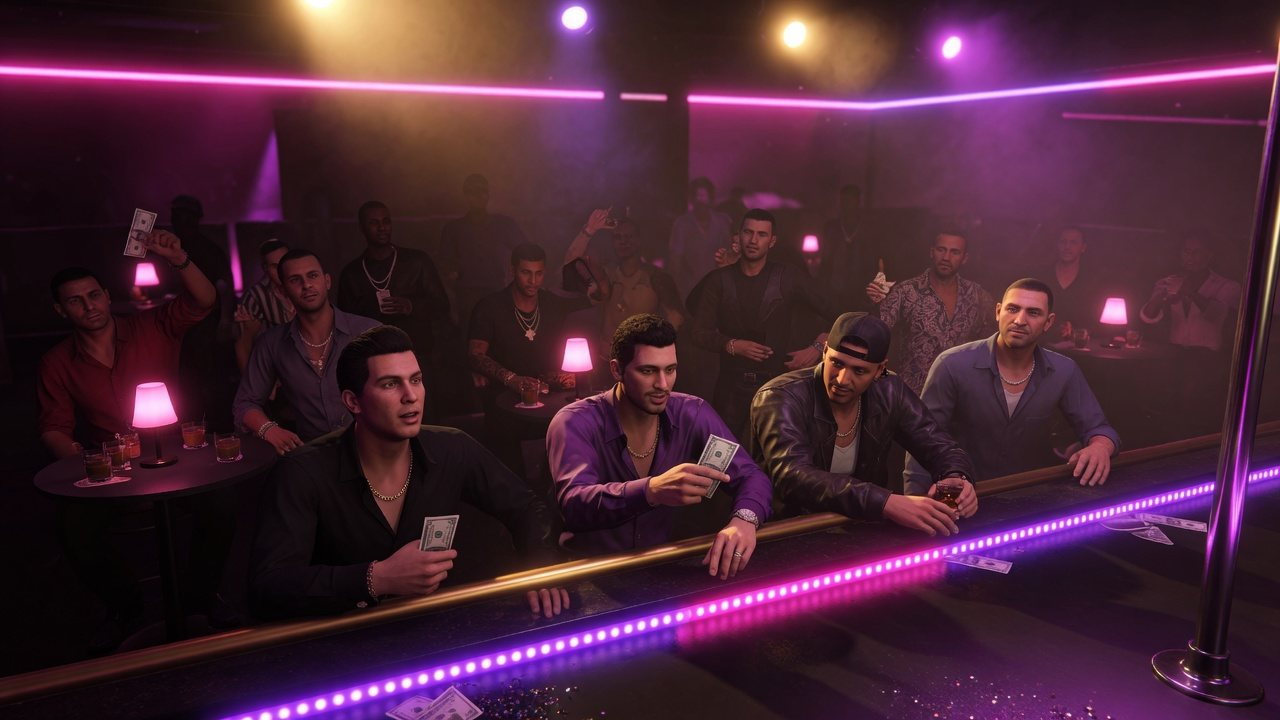
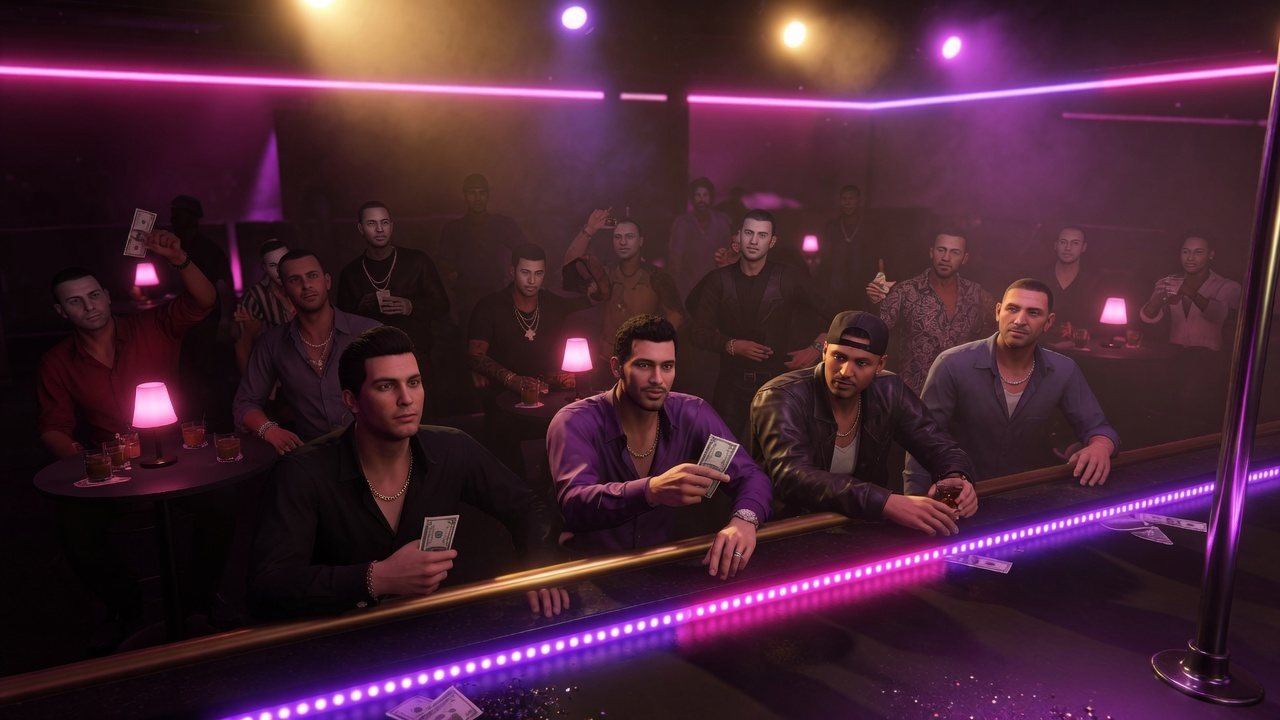
feat: Stage Tips share sheet and floating arms
Crowd looks at the stage camera. Grok hand and faded forearm
sprites trail the swipe. Share score posts to X, Facebook, or Reddit.

diff --git a/stage-tips/game.js b/stage-tips/game.js
@@ -267,117 +267,97 @@
     ctx.restore();
   }
 
-  function limb(ax, ay, bx, by, w0, w1, fill) {
-    var ang = Math.atan2(by - ay, bx - ax);
-    var px = Math.cos(ang + Math.PI / 2);
-    var py = Math.sin(ang + Math.PI / 2);
-    ctx.beginPath();
-    ctx.moveTo(ax + px * w0, ay + py * w0);
-    ctx.lineTo(bx + px * w1, by + py * w1);
-    ctx.lineTo(bx - px * w1, by - py * w1);
-    ctx.lineTo(ax - px * w0, ay - py * w0);
-    ctx.closePath();
-    ctx.fillStyle = fill;
-    ctx.fill();
-  }
+  var frameDt = 0.016;
+  var handImg = new Image();
+  var forearmImg = new Image();
+  var spritesReady = 0;
+  var floaters = {
+    left: { x: 0, y: 0, ex: 0, ey: 0, init: false },
+    right: { x: 0, y: 0, ex: 0, ey: 0, init: false }
+  };
+  handImg.onload = function () { spritesReady += 1; };
+  forearmImg.onload = function () { spritesReady += 1; };
+  handImg.src = 'hand.png';
+  forearmImg.src = 'forearm.png';
 
-  function solveElbow(sx, sy, tx, ty, upper, lower, bendSign) {
-    var dx = tx - sx;
-    var dy = ty - sy;
-    var dist = Math.hypot(dx, dy) || 1;
-    var max = upper + lower - 6;
-    var min = Math.abs(upper - lower) + 8;
-    var nx = tx;
-    var ny = ty;
-    if (dist > max) {
-      nx = sx + dx / dist * max;
-      ny = sy + dy / dist * max;
-      dist = max;
-    } else if (dist < min) {
-      nx = sx + dx / dist * min;
-      ny = sy + dy / dist * min;
-      dist = min;
+  function stepFloater(f, tx, ty, dt) {
+    var len;
+    var vx;
+    var vy;
+    var dist;
+    var wantX;
+    var wantY;
+    var handK;
+    var tailK;
+    if (!f.init) {
+      f.x = tx;
+      f.y = ty;
+      f.ex = tx;
+      f.ey = ty + 150;
+      f.init = true;
     }
-    var ang = Math.atan2(ny - sy, nx - sx);
-    var cosA = (upper * upper + dist * dist - lower * lower) / (2 * upper * dist);
-    cosA = Math.max(-1, Math.min(1, cosA));
-    var elbowAng = ang + bendSign * Math.acos(cosA);
-    var ex = sx + Math.cos(elbowAng) * upper;
-    var ey = sy + Math.sin(elbowAng) * upper;
-    return { ex: ex, ey: ey, hx: nx, hy: ny, ang: Math.atan2(ny - ey, nx - ex) };
+    handK = 1 - Math.pow(0.004, Math.max(dt, 0.001));
+    f.x += (tx - f.x) * Math.min(1, handK);
+    f.y += (ty - f.y) * Math.min(1, handK);
+    vx = f.x - f.ex;
+    vy = f.y - f.ey;
+    dist = Math.hypot(vx, vy) || 1;
+    len = Math.max(130, Math.min(230, cssH * 0.3));
+    wantX = f.x - vx / dist * len;
+    wantY = f.y - vy / dist * len;
+    tailK = 1 - Math.pow(0.28, Math.max(dt, 0.001));
+    f.ex += (wantX - f.ex) * Math.min(1, tailK);
+    f.ey += (wantY - f.ey) * Math.min(1, tailK);
   }
 
-  function drawHand(x, y, ang) {
-    var i;
-    var fx;
+  function drawFloater(f, mirror) {
+    var dx;
+    var dy;
+    var ang;
+    var len;
+    var fw;
+    var hw;
+    var hh;
+    if (spritesReady < 2) return;
+    dx = f.ex - f.x;
+    dy = f.ey - f.y;
+    ang = Math.atan2(dy, dx);
+    len = Math.max(80, Math.hypot(dx, dy));
+    fw = Math.max(46, len * 0.34);
     ctx.save();
-    ctx.translate(x, y);
-    ctx.rotate(ang);
-    ctx.fillStyle = '#f0c4a4';
-    ctx.beginPath();
-    ctx.ellipse(0, 2, 15, 11, 0, 0, Math.PI * 2);
-    ctx.fill();
-    ctx.fillStyle = '#e7b08a';
-    for (i = 0; i < 4; i++) {
-      fx = -11 + i * 7;
-      limb(fx, -6, fx + (i - 1.5) * 1.2, -24, 3.4, 2.4, '#f0c4a4');
-      ctx.fillStyle = '#ff2d95';
-      ctx.beginPath();
-      ctx.ellipse(fx + (i - 1.5) * 1.2, -25, 2.3, 3.1, 0, 0, Math.PI * 2);
-      ctx.fill();
-      ctx.fillStyle = '#e7b08a';
-    }
-    limb(-16, 4, -24, -6, 3.2, 2.2, '#f0c4a4');
-    ctx.fillStyle = '#ff2d95';
-    ctx.beginPath();
-    ctx.ellipse(-25, -7, 2.2, 2.8, -0.6, 0, Math.PI * 2);
-    ctx.fill();
+    ctx.translate(f.x, f.y);
+    ctx.rotate(ang - Math.PI / 2);
+    ctx.drawImage(forearmImg, -fw / 2, -28, fw, len + 28);
+    hw = Math.max(108, cssW * 0.13);
+    hh = hw * (handImg.height / handImg.width);
+    ctx.scale(mirror ? -1 : 1, 1);
+    ctx.drawImage(handImg, -hw / 2, -hh + hw * 0.22, hw, hh);
     ctx.restore();
   }
 
-  function drawOneArm(sx, sy, tx, ty, bendSign) {
-    var upper = Math.max(78, cssH * 0.22);
-    var lower = Math.max(70, cssH * 0.2);
-    var pose = solveElbow(sx, sy, tx, ty, upper, lower, bendSign);
-    limb(sx, sy, pose.ex, pose.ey, 16, 12, '#e2b08a');
-    limb(sx + 2, sy, pose.ex, pose.ey, 7, 5, 'rgba(255, 220, 190, 0.28)');
-    ctx.fillStyle = '#d9a484';
-    ctx.beginPath();
-    ctx.arc(pose.ex, pose.ey, 11, 0, Math.PI * 2);
-    ctx.fill();
-    limb(pose.ex, pose.ey, pose.hx, pose.hy, 11, 7, '#e8b896');
-    limb(pose.ex, pose.ey, pose.hx, pose.hy, 4, 2.5, 'rgba(255, 228, 206, 0.35)');
-    ctx.strokeStyle = '#ffc857';
-    ctx.lineWidth = 3;
-    ctx.beginPath();
-    ctx.arc(pose.hx - Math.cos(pose.ang) * 14, pose.hy - Math.sin(pose.ang) * 14, 8, pose.ang - 1.2, pose.ang + 1.2);
-    ctx.stroke();
-    drawHand(pose.hx, pose.hy, pose.ang);
-  }
-
   function drawArm() {
-    var leftX;
-    var rightX;
-    var leftY;
-    var rightY;
+    var now;
+    var leftTarget;
+    var rightTarget;
     var useLeft;
     if (mode === 'over') return;
-    leftX = cssW * 0.2;
-    rightX = cssW * 0.8;
-    leftY = cssH * 0.78;
-    rightY = cssH * 0.78;
+    now = performance.now();
+    leftTarget = { x: cssW * 0.28, y: cssH * 0.58 + Math.sin(now / 800) * 18 };
+    rightTarget = { x: cssW * 0.72, y: cssH * 0.54 + Math.cos(now / 900) * 16 };
     if (arm.on) {
-      useLeft = Math.abs(arm.x - leftX) <= Math.abs(arm.x - rightX);
+      useLeft = Math.abs(arm.x - leftTarget.x) <= Math.abs(arm.x - rightTarget.x);
       if (useLeft) {
-        leftX = arm.x;
-        leftY = arm.y;
+        leftTarget.x = arm.x;
+        leftTarget.y = arm.y;
       } else {
-        rightX = arm.x;
-        rightY = arm.y;
+        rightTarget.x = arm.x;
+        rightTarget.y = arm.y;
       }
     }
-    drawOneArm(cssW * 0.3, cssH + 36, leftX, leftY, -1);
-    drawOneArm(cssW * 0.7, cssH + 36, rightX, rightY, 1);
+    stepFloater(floaters.left, leftTarget.x, leftTarget.y, frameDt);
+    stepFloater(floaters.right, rightTarget.x, rightTarget.y, frameDt);
+    drawFloater(floaters.left, true);
+    drawFloater(floaters.right, false);
   }
 
   function drawTrail() {
@@ -530,9 +510,9 @@
     trail = [];
     startOverlay.hidden = true;
     endOverlay.hidden = true;
+    document.getElementById('shareSheet').hidden = true;
     hud.hidden = false;
     muteBtn.hidden = false;
-    copyNote.textContent = '';
     if (!muted) tone(330, 0.12, 'sine', 0.04, 520);
     syncHud();
   }
@@ -606,6 +586,7 @@
       if (match.over) finish();
     }
     if (shake > 0) shake = Math.max(0, shake - dt * 28);
+    frameDt = dt;
     if (!arm.on) {
       arm.x = cssW * 0.9 + Math.sin(ts / 700) * 12;
       arm.y = cssH * 0.74 + Math.cos(ts / 900) * 8;
@@ -645,17 +626,15 @@
     if (!muted) unlockAudio();
   });
   muteBtn.textContent = muted ? 'Sound off' : 'Sound on';
-  document.getElementById('copyBtn').addEventListener('click', function () {
-    var text = 'I caught ' + money(match ? match.cash : 0) + ' in Stage Tips. https://stripclubempire.com/stage-tips/';
-    if (navigator.clipboard && navigator.clipboard.writeText) {
-      navigator.clipboard.writeText(text).then(function () {
-        copyNote.textContent = 'Copied.';
-      }).catch(function () {
-        copyNote.textContent = text;
-      });
-    } else {
-      copyNote.textContent = text;
-    }
+  document.getElementById('shareBtn').addEventListener('click', function () {
+    var text = 'I caught ' + money(match ? match.cash : 0) + ' in tips! Can you beat my score?';
+    var page = 'https://stripclubempire.com/stage-tips/';
+    var sheet = document.getElementById('shareSheet');
+    document.getElementById('sharePreview').textContent = text;
+    document.getElementById('shareX').href = 'https://twitter.com/intent/tweet?text=' + encodeURIComponent(text) + '&url=' + encodeURIComponent(page);
+    document.getElementById('shareFb').href = 'https://www.facebook.com/sharer/sharer.php?u=' + encodeURIComponent(page) + '&quote=' + encodeURIComponent(text);
+    document.getElementById('shareReddit').href = 'https://www.reddit.com/submit?url=' + encodeURIComponent(page) + '&title=' + encodeURIComponent(text);
+    sheet.hidden = false;
   });
 
   canvas.addEventListener('pointerdown', onPointerDown);

diff --git a/stage-tips/index.html b/stage-tips/index.html
@@ -107,9 +107,16 @@
           <div class="end-actions">
             <a class="btn btn-primary" href="https://store.steampowered.com/app/4994860/Strip_Club_Empire/" target="_blank" rel="noopener">Wishlist the full club on Steam</a>
             <button type="button" class="btn btn-secondary" id="againBtn">Play again</button>
-            <button type="button" class="btn btn-secondary" id="copyBtn">Copy score</button>
+            <button type="button" class="btn btn-secondary" id="shareBtn">Share score</button>
           </div>
-          <p class="copy-note" id="copyNote"></p>
+          <div class="share-sheet" id="shareSheet" hidden>
+            <p id="sharePreview" class="share-preview"></p>
+            <div class="share-actions">
+              <a id="shareX" class="btn btn-secondary" target="_blank" rel="noopener">Post on X</a>
+              <a id="shareFb" class="btn btn-secondary" target="_blank" rel="noopener">Post on Facebook</a>
+              <a id="shareReddit" class="btn btn-secondary" target="_blank" rel="noopener">Post on Reddit</a>
+            </div>
+          </div>
         </div>
       </div>
     </div>

diff --git a/stage-tips/style.css b/stage-tips/style.css
@@ -282,8 +282,19 @@ canvas {
 
 .best-note { color: var(--gold) !important; font-weight: 700; }
 
-.copy-note {
-  min-height: 1.2em;
-  font-size: 13px;
-  color: var(--gold) !important;
+.share-sheet {
+  margin-top: 12px;
+  text-align: left;
+}
+
+.share-preview {
+  color: var(--text) !important;
+  font-weight: 700;
+  font-size: 15px;
+}
+
+.share-actions {
+  display: flex;
+  flex-direction: column;
+  gap: 8px;
 }
